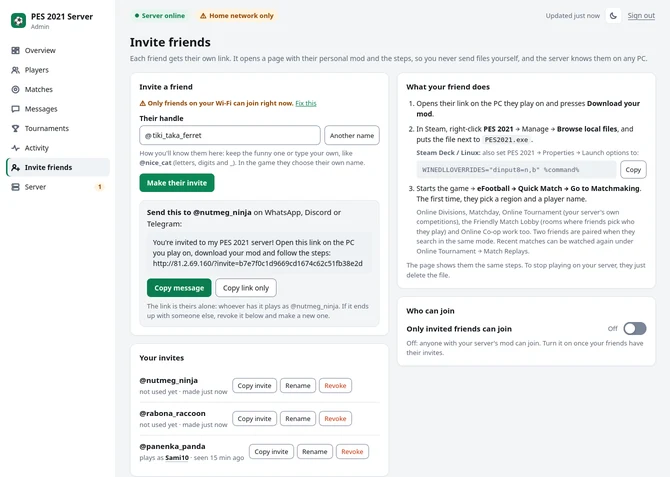
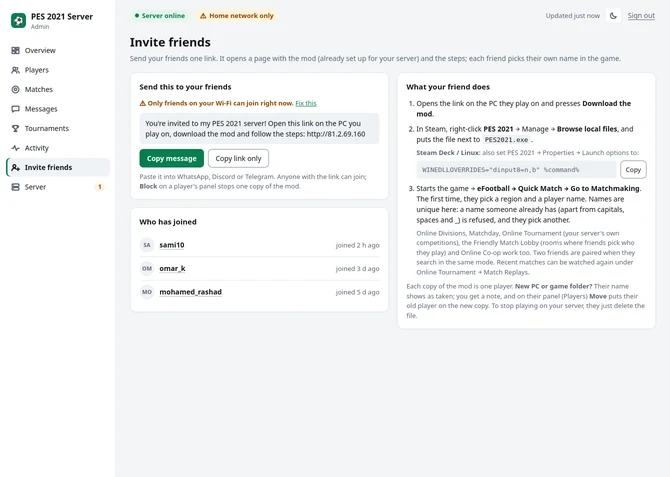
README and website: unique names, Move and Block, one invite link, the mod on the server's PC by itself

diff --git a/docs/index.html b/docs/index.html
@@ -471,9 +471,9 @@ footer a { color: var(--muted); display: inline-block; padding: 3px 0; }
               <li>Downloads the server program from this project's <a href="https://github.com/MohamedAliRashad/pes2021-private-server/releases/latest">latest release</a> (built by GitHub from the public code) and sets it up as your own user, no sudo: a <code>systemd --user</code> service (so it runs without a window and starts when you log in), an apps-menu entry and the <code>pes2021-server</code> command. Updates from the admin page are checked against the release's checksums and test-run before they replace the program.</li>
               <li>Keeps the program, players, results and its log in one folder: <code>~/.local/share/pes2021-server</code>.</li>
               <li>Opens ports on your router (UPnP) so friends outside your home can reach you, and closes them when the server stops; after a power cut they usually expire on their own within 2 hours.</li>
-              <li>If PES 2021 is installed on this computer, the admin page can put the mod in for you with one click. On Linux it also sets the Wine option in the game's Proton prefix (only its registry file is changed, and a backup copy, <code>user.reg.pes2021-backup</code>, is kept next to it).</li>
+              <li>If PES 2021 is installed on this computer, the server puts the mod in by itself and keeps it up to date (only while the game is closed, never over another mod; a switch on the admin page turns it off). On Linux it also sets the Wine option in the game's Proton prefix (only its registry file is changed, and a backup copy, <code>user.reg.pes2021-backup</code>, is kept next to it).</li>
               <li>The admin page is plain HTTP and opens only from your home network (and Tailscale).</li>
-              <li>While your router ports are open, your server's address is public: anyone who has it can open your friends' page, download the mod and join, unless you turn on <b>Only invited friends can join</b> (Invite friends). <b>Revoke</b> locks one person out.</li>
+              <li>While your router ports are open, your server's address is public: anyone who has it can open your friends' page, download the mod and join. <b>Block</b> on a player's panel locks one copy of the mod out.</li>
             </ul>
           </details>
         </div>
@@ -482,16 +482,16 @@ footer a { color: var(--muted); display: inline-block; padding: 3px 0; }
       <div class="card step" id="share">
         <div>
           <div class="step-num" aria-hidden="true">2</div>
-          <h3>The host invites each friend</h3>
-          <p class="small muted">On your admin page open <b>Invite friends</b> and press <b>Make their invite</b>. Each friend gets a handle like <b>@nutmeg_ninja</b> (keep the funny one or type your own) and their own link; the page they open has their personal mod and the steps.</p>
+          <h3>The host invites friends</h3>
+          <p class="small muted">On your admin page open <b>Invite friends</b> and press <b>Copy message</b>: one link for everyone. It opens a page with the mod (already set up for your server) and the steps.</p>
           <p class="small muted"><b>Before you send it,</b> look at the top of your admin page: <b>✓ Router ports open</b> means friends outside your home should be able to connect. If it says <b>Friends use</b> and your address (you set a fixed one), friends can connect only if that address's ports are open; the server can't check this itself. If it says <b>Home network only</b>, only friends on your Wi-Fi can join; for friends elsewhere, or if it warns about router ports or CGNAT, see <a href="#hosthelp">Help → For hosts</a>.</p>
-          <p class="small muted"><b>Copy message</b> and send it on <b>Discord, WhatsApp or Telegram</b>. The link is theirs alone: it's how the server knows them on any PC. In the game they still pick their own name.</p>
+          <p class="small muted">Send it on <b>Discord, WhatsApp or Telegram</b>. Each friend picks their own name in the game; names are unique on your server (a friend on a new PC gets their old player back with <b>Move</b> on the admin page).</p>
           <p class="small muted"><b>First test:</b> have one friend start the game. They appear under <b>Online now</b> on your admin page within a minute.</p>
         </div>
         <div>
           <figure class="mini-shot">
-            <a class="light" href="admin-invite-light.webp"><img src="admin-invite-light.webp" width="670" height="477" loading="lazy" alt="The real admin page, Invite friends: a handle box with @nutmeg_ninja, Make their invite, the message with their personal link to copy, and the list of invites."></a>
-            <a class="dark" href="admin-invite-dark.webp"><img src="admin-invite-dark.webp" width="670" height="477" loading="lazy" alt="The real admin page in dark mode, Invite friends: a handle box, Make their invite, the message with their personal link to copy, and the list of invites."></a>
+            <a class="light" href="admin-invite-light.webp"><img src="admin-invite-light.webp" width="670" height="477" loading="lazy" alt="The real admin page, Invite friends: the message with your server's link, Copy message, and who has joined."></a>
+            <a class="dark" href="admin-invite-dark.webp"><img src="admin-invite-dark.webp" width="670" height="477" loading="lazy" alt="The real admin page in dark mode, Invite friends: the message with your server's link, Copy message, and who has joined."></a>
             <figcaption class="small muted">Click or tap to enlarge.</figcaption>
           </figure>
           <p class="small muted"><b>Playing on the same PC?</b> If the installer found PES 2021 on it, the admin page has a <b>The server computer</b> card: close the game and click <b>Install mod</b>.</p>
@@ -666,7 +666,7 @@ footer a { color: var(--muted); display: inline-block; padding: 3px 0; }
         <li>If something is broken, run the install line again: it repairs the setup and updates the program.</li>
         <li>Remove everything: click <b>Uninstall</b> on the admin page's server-computer card (if you used it), stop the server, run <code>systemctl --user disable pes2021-server</code>, then delete <code>~/.local/share/pes2021-server</code>, <code>~/.config/systemd/user/pes2021-server.service</code>, <code>~/.local/share/applications/pes2021-server.desktop</code> and <code>~/.local/bin/pes2021-server</code>. This deletes players, results and the server's identity, so old mod files stop working.</li>
       </ul>
-      <p><b>Who can join?</b> With <b>Only invited friends can join</b> on (Invite friends), only friends you invited. Otherwise anyone who has your server's mod or address; while your router ports are open, that address is public. <b>Revoke</b> on an invite locks that person out.</p>
+      <p><b>Who can join?</b> Anyone who has your server's mod or address; while your router ports are open, that address is public, so share it only with friends. <b>Block</b> on a player's panel (Players) stops that copy of the mod from signing in.</p>
     </details>
     <details class="q" id="faq-update">
       <summary>After I update the server, do friends need a new file?</summary>

diff --git a/server/README.md b/server/README.md
@@ -72,30 +72,28 @@ curl -s -H "Authorization: Bearer $T" -X POST $A/tourneys/monthly -d '{"on": fal
 names any id). `match_minutes` is 5 to 30 (default 10). `info` is shown in the game under Competition Details → Competition
 Outline. When a competition ends, each player sees their final position the next time they open Online Tournament.
 
-## Invites: one mod per friend
+## Players: names, Block, Move
 
-Each friend can get their own copy of the mod with a handle like `@panenka_panda` (a funny football one, or one you
-pick: lowercase letters, digits and `_`) and a secret code written in. The server then knows them by that code: on any PC, in any game folder,
-after a reinstall. In the game they still choose their own name, and no two players can take the same one.
-Revoking an invite is a ban: that copy can't sign in any more. Needs mod 0.6.0 (this release).
-
-With **invites only** switched on, a newcomer without an invite gets "Unable to login" and the activity feed
-tells you to make them one. Players the server already knows keep playing. It is off by default.
+Each copy of the mod is one player (its install id, sent on the mod's id line). The first time, the game asks for
+a name; `pesserver/pesnames.py` stores it lowercased with `_` for spaces, `-` and `.` (letters of any language,
+digits and `_`; at most 24), and refuses one that equals an existing name apart from case and those characters
+(`ERR_ALREADYEXISTS`, "There is already a User with that name."). When a new copy asks for a taken name the server
+keeps a *claim*: the activity feed and that player's panel offer **Move**, which puts the old player (name, rating,
+results) on the new copy. **Block** makes a copy's sign-in fail with the game's "account suspended" message.
 
 ```bash
-curl -s -H "Authorization: Bearer $T" -X POST $A/invites/new -d '{}'                      # a funny handle
-curl -s -H "Authorization: Bearer $T" -X POST $A/invites/new -d '{"handle": "nice_cat"}'  # your own (@ optional)
-curl -s -H "Authorization: Bearer $T" -X POST $A/invites/new -d '{"pid": 3}'              # for a player you already have
-curl -s -H "Authorization: Bearer $T" $A/invites                                         # all invites, with their links
-curl -s -H "Authorization: Bearer $T" -X POST $A/invites/settings -d '{"invites_only": true}'
-curl -s -H "Authorization: Bearer $T" -X POST $A/invites/rename -d '{"id": 1, "handle": "rabona_raccoon"}'
-curl -s -H "Authorization: Bearer $T" -X POST $A/invites/revoke -d '{"id": 1}'           # ban; add "back": true to undo
-curl -s -H "Authorization: Bearer $T" -X POST $A/invites/delete -d '{"id": 1}'
+curl -s -H "Authorization: Bearer $T" -X POST $A/players/block -d '{"pid": 3, "on": true}'
+curl -s -H "Authorization: Bearer $T" -X POST $A/players/move -d '{"pid": 3, "copy": "m:<install id>"}'   # copy: from the player's "claims"
 ```
 
-Each invite has a `link`, `/mod/dinput8.dll?invite=<code>` on this server's web address: send it to that friend
-only (whoever has the link or the file plays as them). A friend who already played gets their old account moved
-onto the invite the first time they sign in with it, if you made the invite with their `pid`.
+## The mod in PES 2021 on the server's own computer
+
+`pesserver/gamesetup.py` finds PES 2021 copies (Steam libraries, `~/Games`) and, every minute while the game isn't
+running, puts the mod into each copy without one and replaces this server's mod when the file it hands out changed
+(a new mod version, new addresses), with the Wine `dinput8` override in the copy's prefix. Copies with another
+server's mod, someone else's `dinput8.dll`, or one the host removed the mod from are left alone.
+`GET/POST /admin/api/games/auto {"on"}` switches it (saved in `<data>/auto.json`); `AUTO_MOD=0` turns it off for a
+development server.
 
 ## The host program on Linux: install, update, restart
 
@@ -147,7 +145,7 @@ can't work.
 | `pesserver/pesresults.py`, `pesranking.py` | match history (Last 20 results), Play Analysis uploads, rankings (overall and per division) |
 | `pesserver/pesblock.py` | Match Block List: blocked pairs are never matched |
 | `pesserver/peswords.py` | the host's word filter: whole words or phrases in `<data>/blocked_words.txt` (one a line) are refused in player names, room names and profile texts |
-| `pesserver/pesinvite.py` | invites: one mod per friend with a handle and a secret code (sent on the mod's id line); invites only, revoke = ban, unique player names |
+| `pesserver/pesnames.py` | player names (lowercased, `_`, unique apart from case/spaces/`_-.`), claims and Move to a new copy, Block |
 | `pesserver/announce.py` | news, messages to one player (their Information list), restart warning, lobby welcome notes |
 | `pesserver/hostctl.py` | the Linux host program: `install` (systemd user service, apps-menu entry), `open`, `selfcheck`; update from the admin page (checksum, self-check, swap, restart), restart, stop, start when I log in |
 | `pesserver/httpgate.py` | HTTP/HTTPS web API, `GateInfo.php`, `/ca.crt` |
@@ -156,7 +154,7 @@ can't work.
 | `pesserver/turn.py`, `turnrelay.py`, `turndtls.py` | the relay: TURN list and credentials; TURN over TLS (first leg, sends the dual-route directive); TURN over DTLS with the game's framing (second leg, the one the match uses). Details: `notes/re/functions/ktcdtls.md`, `turncycle.md`, `turnlinkup.md` |
 | `pesserver/netsetup.py` | address detection, UPnP port mapping, per-client advertised address, startup banner |
 | `pesserver/identity.py` | the server's Ed25519 identity, signed notes and hellos for the mod, writing settings into the mod DLL |
-| `pesserver/gamesetup.py` | admin page "The server computer" card: finds PES copies on this computer and installs the mod |
+| `pesserver/gamesetup.py` | PES 2021 on the server's own computer: finds the copies, keeps the mod in them up to date by itself (and the admin page's buttons) |
 | `pesserver/certs.py`, `updates.py` | the server's CA and TLS certificate; the "newer version is out" check |
 | `pesserver/__main__.py` | command line: `host` (the program), `serve` (development), `adduser` |
 | `mod/` | the mod (`dinput8.dll`): MinHook hooks, Monocypher signatures, same-math functions from musl (`mod/musl-math/`, checked by `mod/test/mathcheck.c`), built by `mod/build.sh` (MinGW) |

diff --git a/README.md b/README.md
@@ -42,18 +42,19 @@ terminal? Close it (Ctrl+C), then run the line once.
 
 ## 2. Host: invite your friends
 
-Open the admin page → **Invite friends** → **Make their invite**. Each friend gets a handle like `@nutmeg_ninja`
-(keep the funny one or type your own) and a message with their personal link to paste into Discord, WhatsApp or
-Telegram. The link opens a page with their own copy of the mod and the steps; you never send files yourself.
+Open the admin page → **Invite friends** → **Copy message**, and paste it into Discord, WhatsApp or Telegram. The
+link opens a page with the mod (already set up for your server) and the steps; you never send files yourself.
 
-Their copy knows your server, keeps working after it restarts, and tells the server who they are on any PC. In
-the game they still choose their own name (no two players can take the same one). **Revoke** locks one person
-out, and **Only invited friends can join** keeps everyone else out. Details and the admin API:
-[Invites](server/README.md#invites-one-mod-per-friend).
+Each copy of the mod is one player. The first time, the game asks for a name: the server keeps it lowercased with
+`_` for spaces (`Mohamed Rashad` → `mohamed_rashad`, letters of any language), and a name someone already has
+(apart from capitals, spaces, `_`, `-` and `.`) is refused with the game's own "There is already a User with that
+name." A friend on a **new PC or game folder** gets that message for their own name: you see a note, and on their
+panel (Players) **Move** puts their old player (name, rating, results) on the new copy. **Block** on a player's
+panel stops their copy from signing in.
 
-**Playing on the same PC?** The installer finds PES 2021 on your computer (Steam libraries and
-`~/Games`): close the game, then on the admin page under **The server computer** click **Install mod**. On Linux it
-also sets the Wine option for you, so no launch option is needed.
+**PES 2021 on the server's own PC** gets the mod by itself: the server finds it (Steam libraries and `~/Games`)
+and, while the game is closed, puts the mod in and keeps it up to date, Wine option included. A copy with another
+mod is left alone; **PES 2021 on this computer** (Server page) has the switch and the buttons.
 
 ## 3. Friends: drop it in and play
 
@@ -77,13 +78,13 @@ delete the file.
 |---|---|
 | A friend can't connect | The host's server must be running. The mod writes what it tried to `pes2021-online.log` in the game folder |
 | "Router ports are closed" on the host | Turn on **UPnP** in your router settings and start the server again, or forward the ports it lists |
-| The match ends right after kick-off ("unforeseen circumstances") | A Windows player and a Linux / Steam Deck player computed the match differently. Both open their invite link again and download their mod (version 0.4.0 or newer keeps their games in step), and the host updates the server (admin page → Server → **Update now**) |
+| The match ends right after kick-off ("unforeseen circumstances") | A Windows player and a Linux / Steam Deck player computed the match differently. Both download the mod again from the friends' link (version 0.4.0 or newer keeps their games in step), and the host updates the server (admin page → Server → **Update now**) |
 | "Failed to connect with opponent" | The two PCs can't reach each other directly. Everyone installs [Tailscale](https://tailscale.com); the host runs the install line again with `PUBLIC_IP=<host's Tailscale IP>` before `sh` (`curl -fsSL … \| PUBLIC_IP=100.x.y.z sh`) |
 | Play on another server | Get that server's file and replace yours, or hold **Shift** while the game starts and paste its address |
 
-**New players:** the first time a friend goes online with their mod (eFootball → Quick Match), the game asks for
-a region and a player name, and your server saves that player, tied to their invite (the same player on any PC).
-They appear on the admin page, where you can also delete a player.
+**New players:** the first time a friend goes online with the mod (eFootball → Quick Match), the game asks for a
+region and a player name, and your server saves that player, tied to their copy of the mod. They appear on the
+admin page, where you can also block, move or delete a player.
 
 **Updating:** the admin page tells you when a newer version is out; press **Update now** (Server page, or the banner).
 
